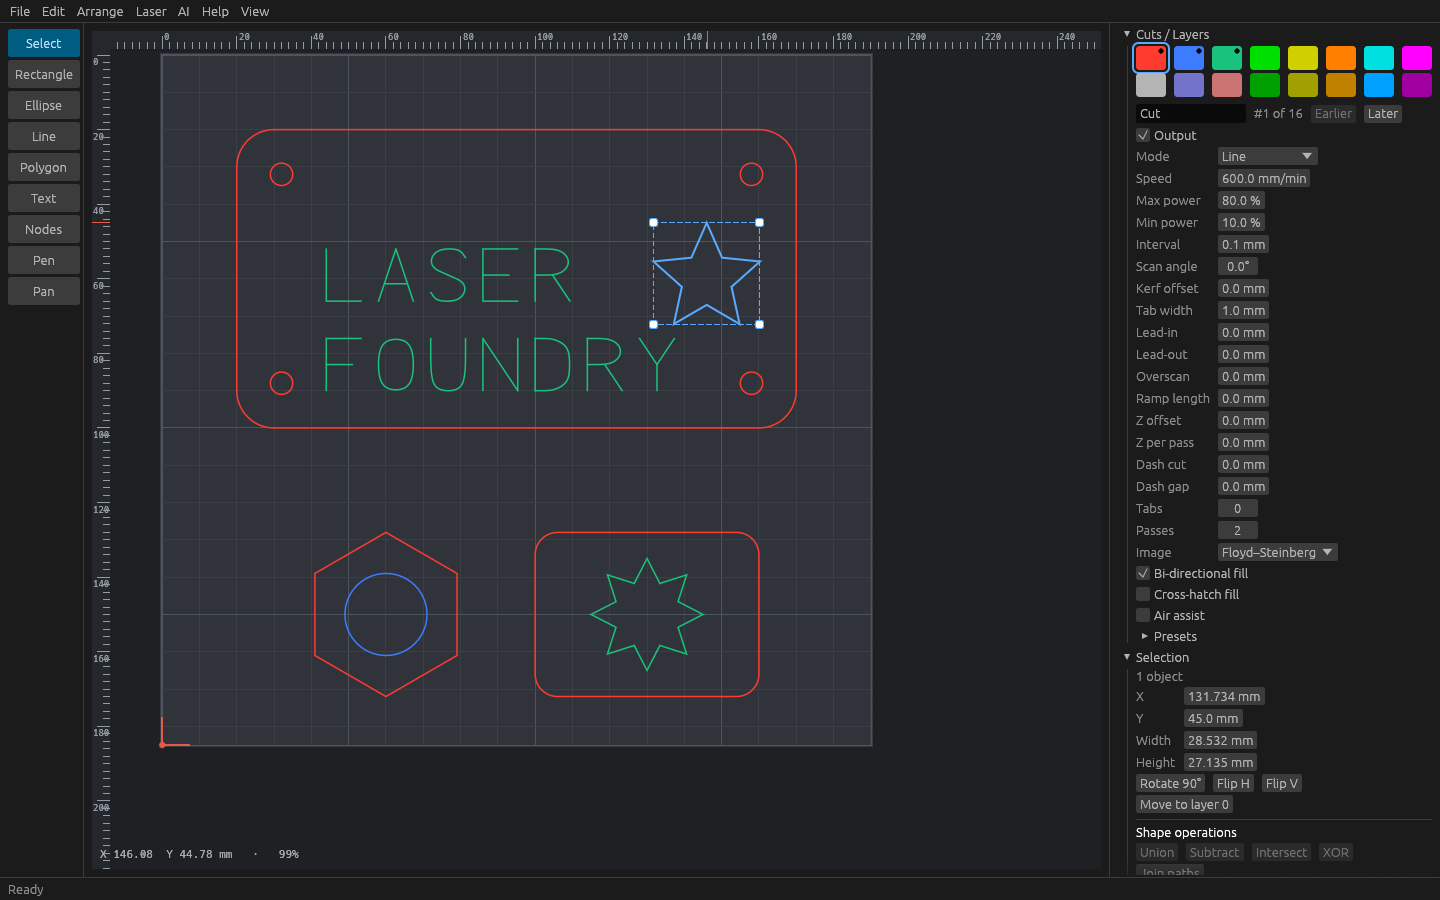
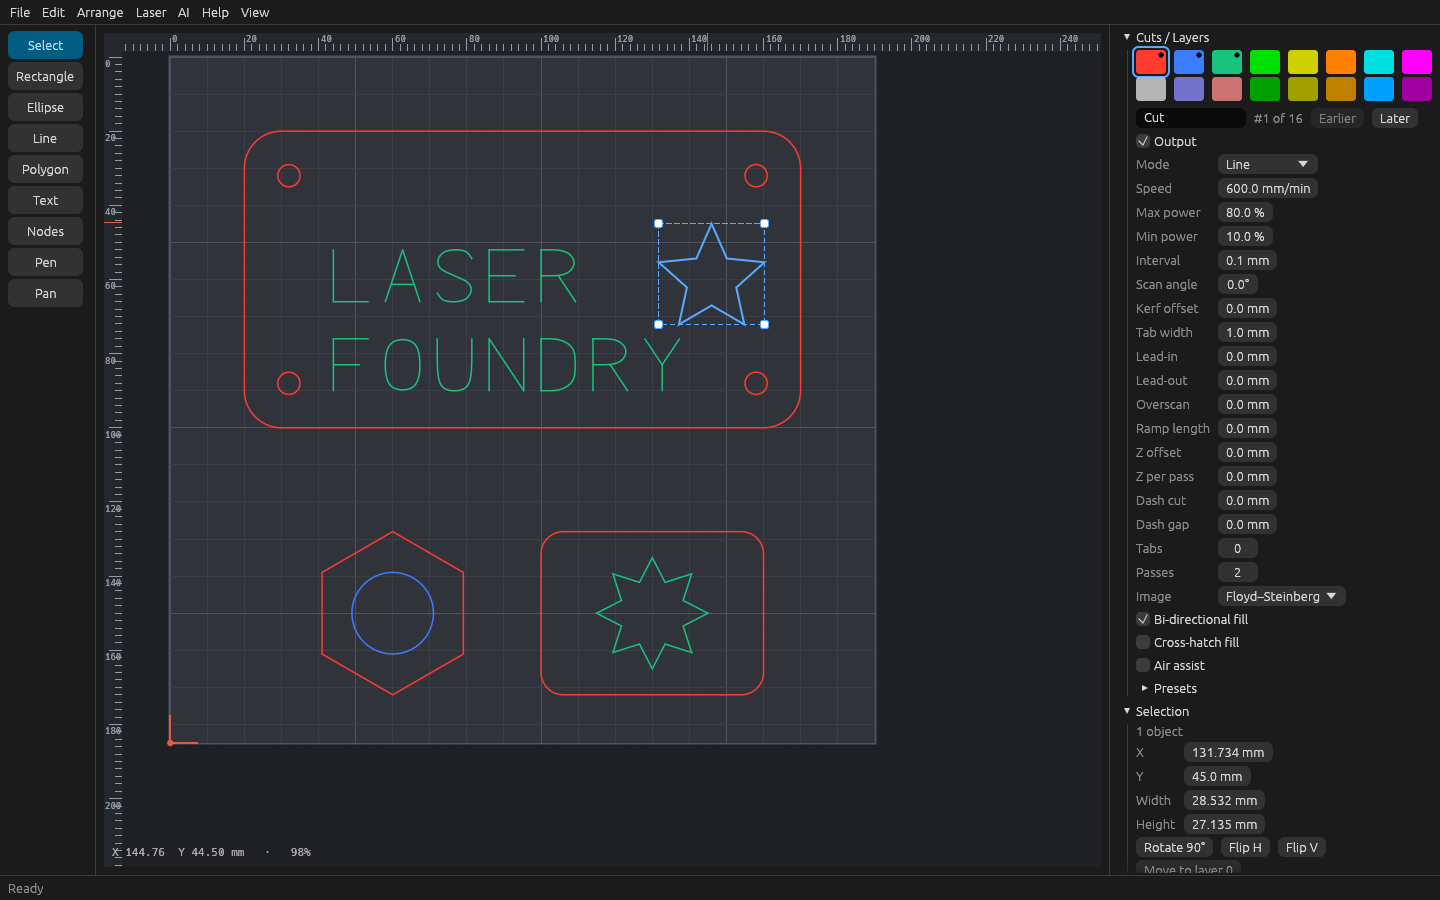
Retake the website screenshots on egui 0.37 and record the update

diff --git a/ROADMAP.md b/ROADMAP.md
@@ -884,4 +884,14 @@ See [`docs/gaps.md`](docs/gaps.md) for the ranked work list and
   passes after (the three allowed "unmaintained" warnings remain), and `cargo xtask ci` passes. **Not checked:** the AI and font downloads against
   the live services with the new certificate libraries. Still open: the Dependabot PRs for egui and eframe 0.37 fail CI (they are API changes, not
   yet looked at).
+- **2026-10-26 — egui and eframe 0.37, ureq 3.5.0 (open Dependabot PRs 14, 15 and 16).** The two UI crates have to move together, so one change
+  does both. Code changes: `egui::WidgetType` is now `egui::Role` (the design canvas is announced as a canvas instead of "other"), and
+  `Id::new` is `Id::unique` (same hashing, so the dialogs keep their ids). **A regression the tests did not catch:** the larger default button
+  padding made "Rectangle" wrap to "Rectangl" / "e" in the tool column, seen only by taking a screenshot. The column now sizes itself from the
+  real labels and fonts (`panels::column_width`), which also covers longer translated names; a frame test checks that a long name widens it.
+  Checked: `cargo xtask ci` and `cargo audit` pass, the app was run under Xvfb with the same design as before (toolpath preview and per-layer
+  times identical: 2 m 59 s, 1 m 38 s, 25 s), the window icon is unchanged, and the website screenshots were retaken. **Not checked:** other
+  windows and dialogs under 0.37 beyond the main window and the preview, Windows and macOS rendering, and ureq 3.5.0 against the live services
+  (this sandbox's network proxy re-signs HTTPS, so the font download cannot be tried here). Pull requests 12 (rust-cache) and 13
+  (trusted-signing action) are workflow changes, left for you to review; 14, 15 and 16 are done by this change.
 
